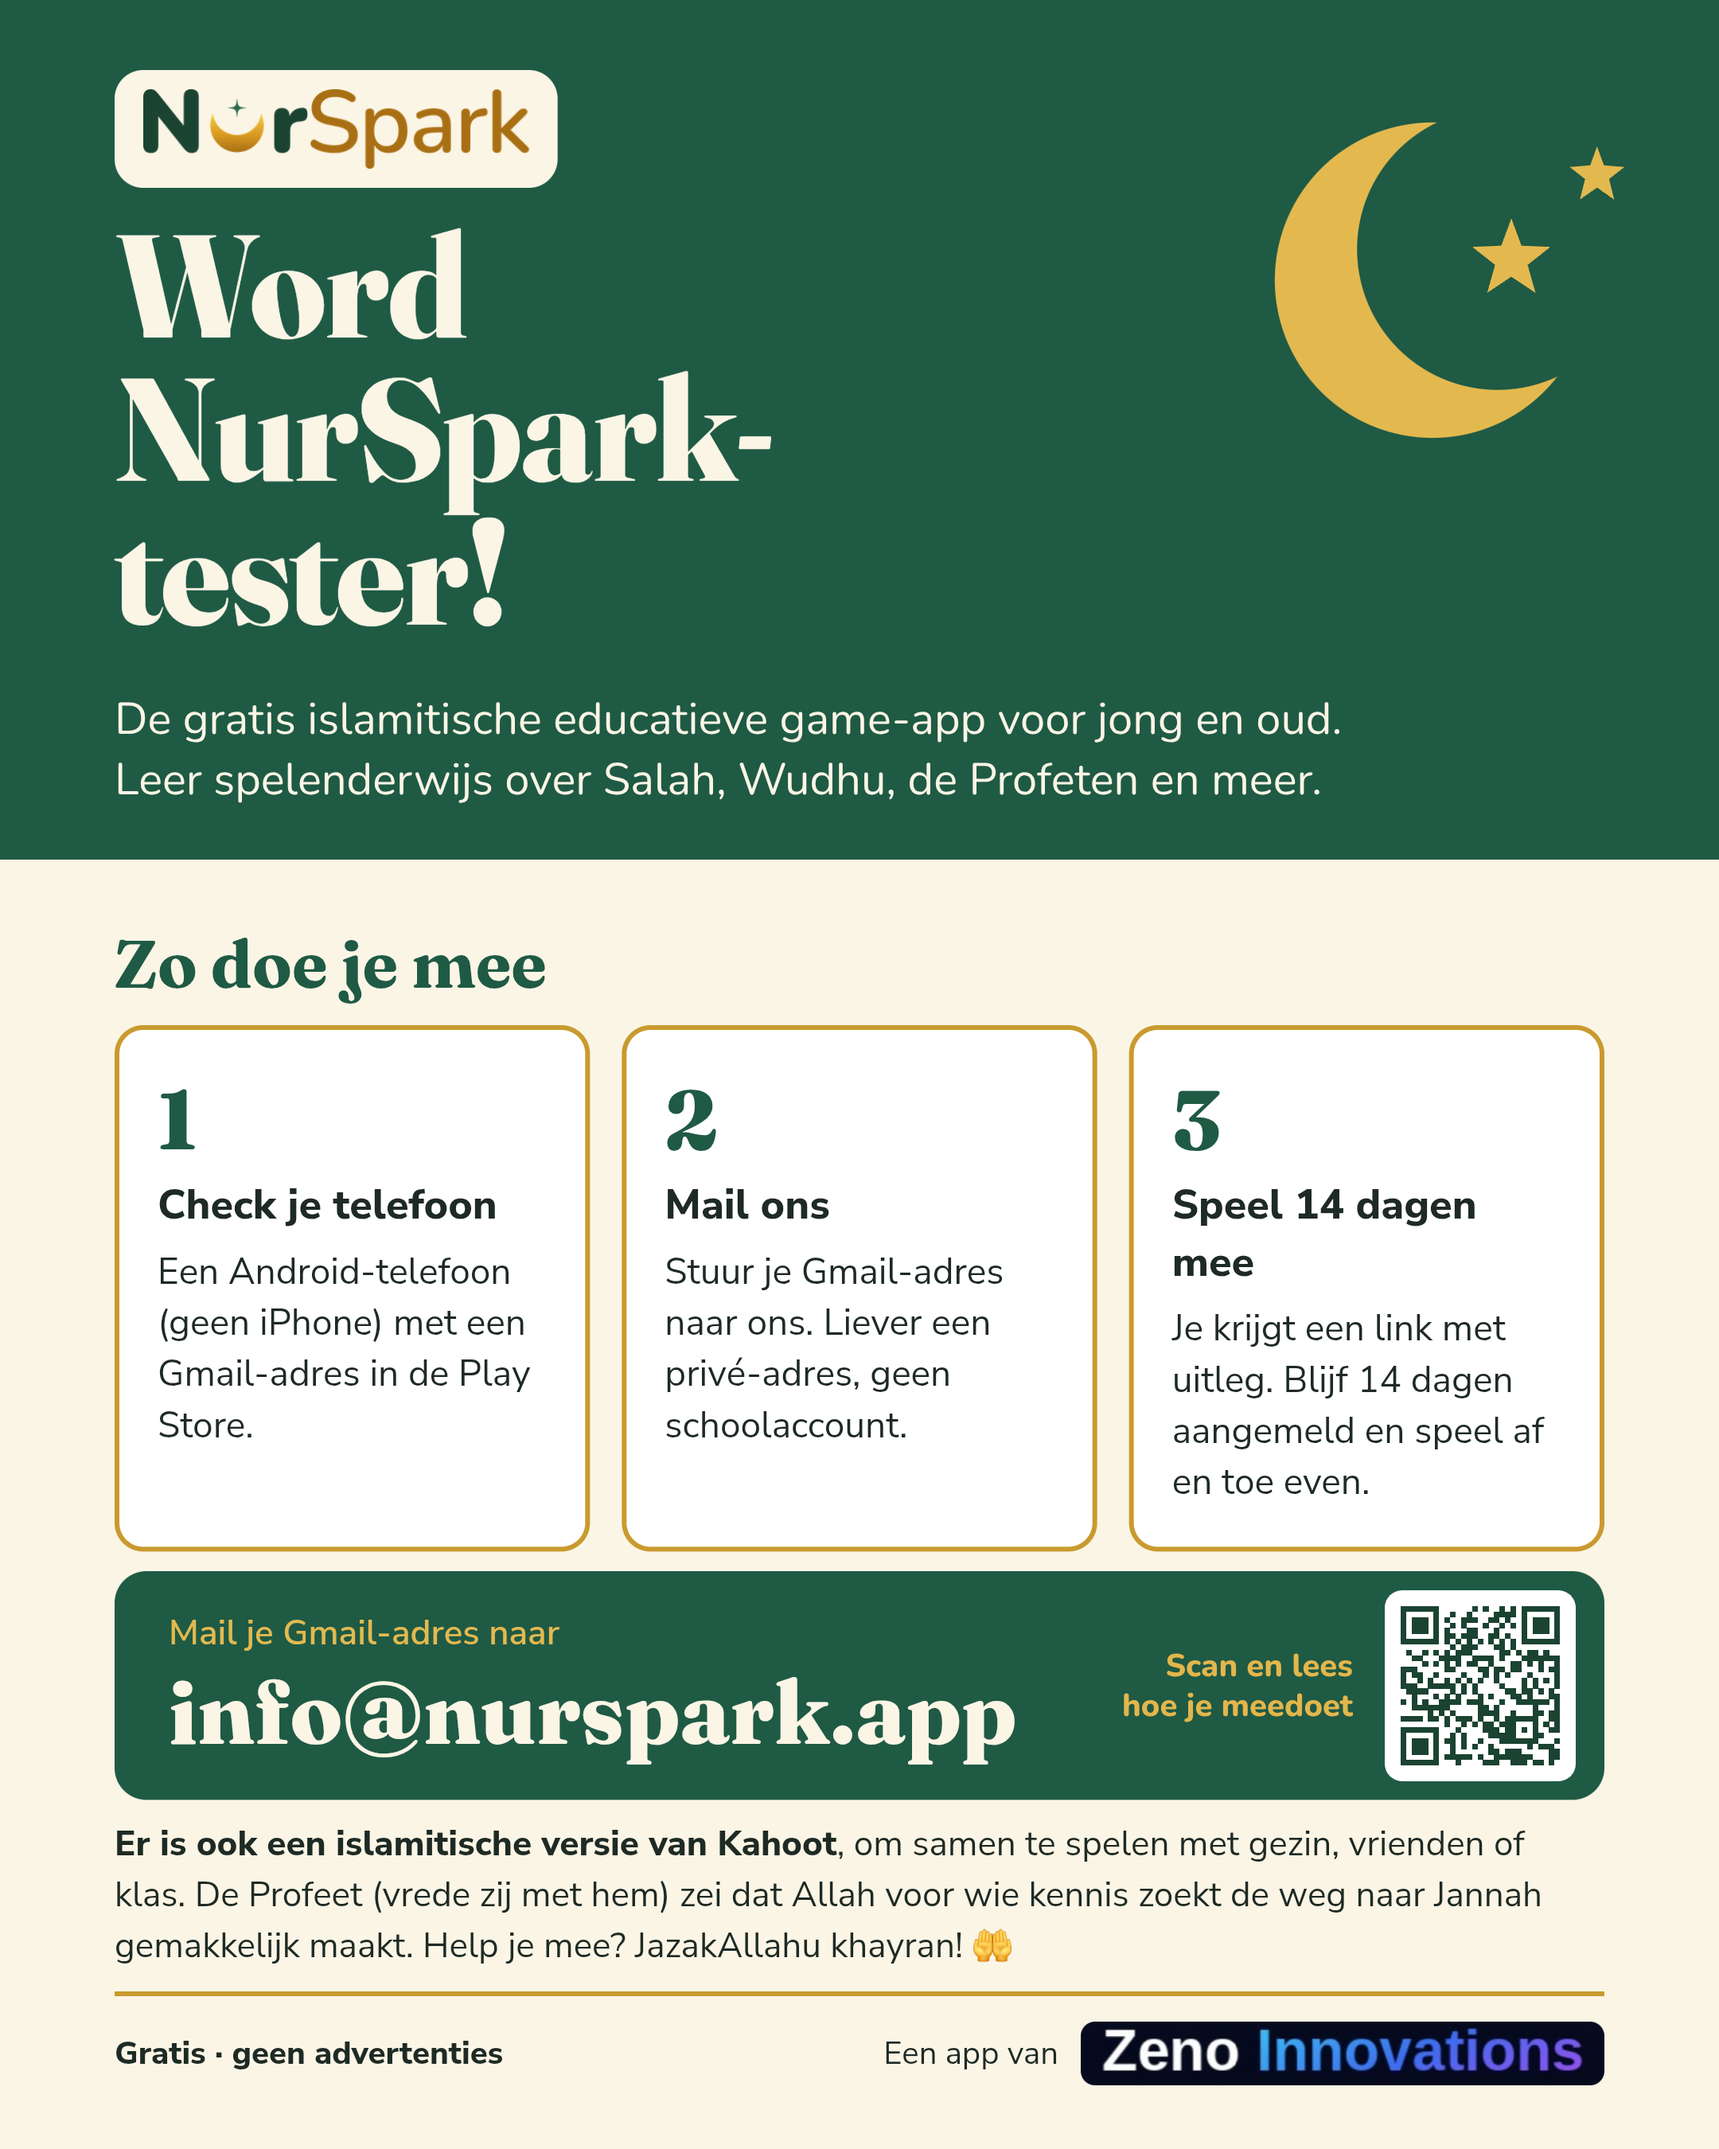
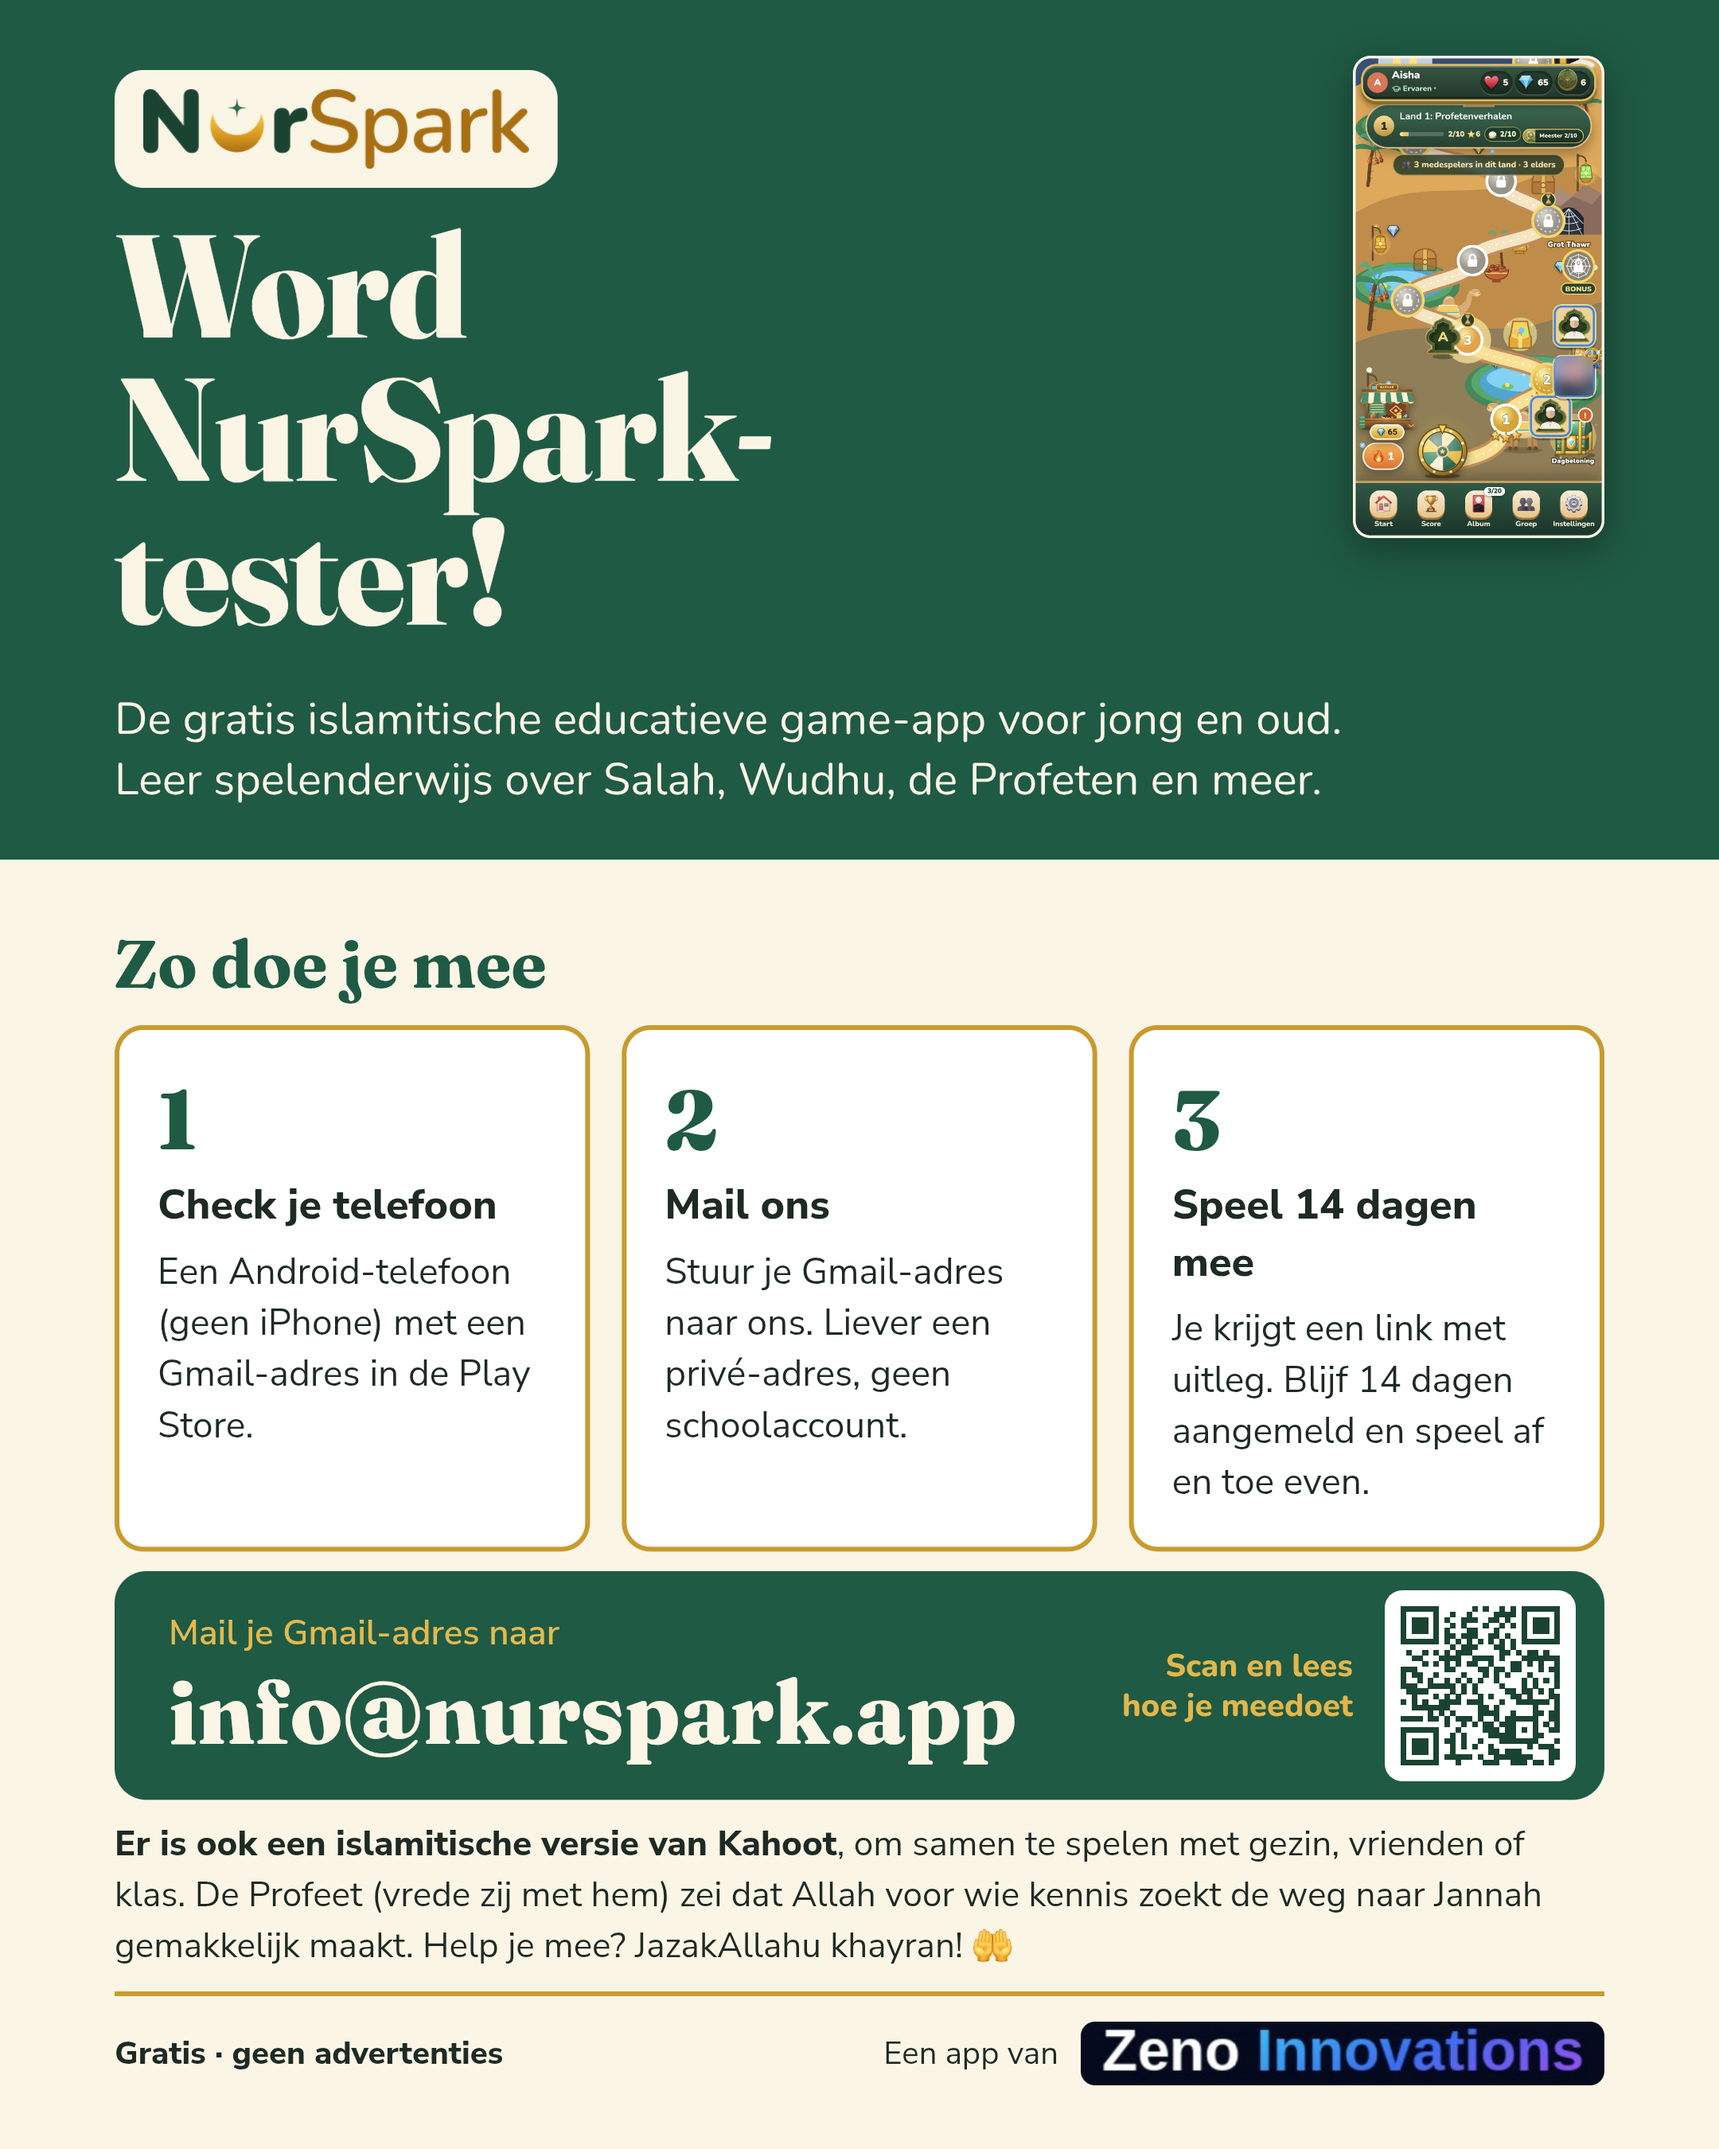
Flyers en tester-pagina: preview van de reiskaart (medespeler-foto vervaagd)
Claude-Session: https://claude.ai/code/session_01JY69MZhGySfDRTzfEMXLTw

Changed region(s): [[0.7444, 0.0, 0.9616, 0.2489]]

diff --git a/tester/index.html b/tester/index.html
@@ -90,6 +90,10 @@ footer .wrap { display: flex; flex-wrap: wrap; gap: 8px 18px; justify-content: s
 <a href="mailto:info@nurspark.app?subject=Ik%20wil%20NurSpark-tester%20worden&amp;body=Mijn%20Gmail-adres%20is%3A%20">info@nurspark.app</a>
 </div>
 
+<h2>Zo ziet het eruit</h2>
+<p>Een reis langs levels, sterren en schatkisten. Hier zie je een stukje van de reiskaart.</p>
+<p style="text-align:center"><img src="/tester/reiskaart.png" alt="Voorbeeld van de reiskaart in NurSpark: een pad door de woestijn met levels, sterren en een schatkist" width="260" style="max-width:70%;height:auto;border-radius:22px;box-shadow:0 10px 28px rgba(27,67,50,.25)"></p>
+
 <h2>Waarom testen?</h2>
 <p>Voordat NurSpark in de Play Store komt, moeten er mensen de app 14 dagen uitproberen. Door mee te doen help je ons enorm. De app is gratis en zonder advertenties.</p>
 
